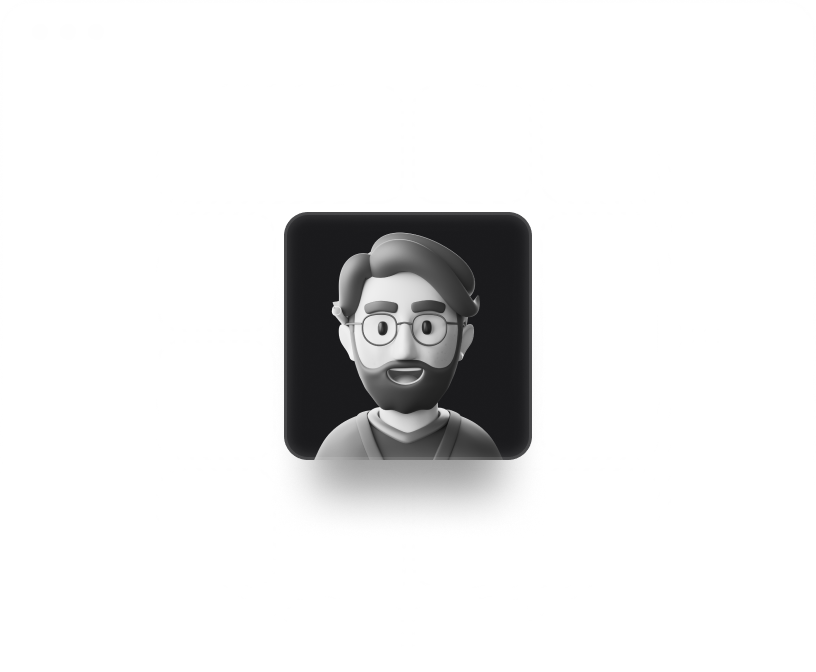
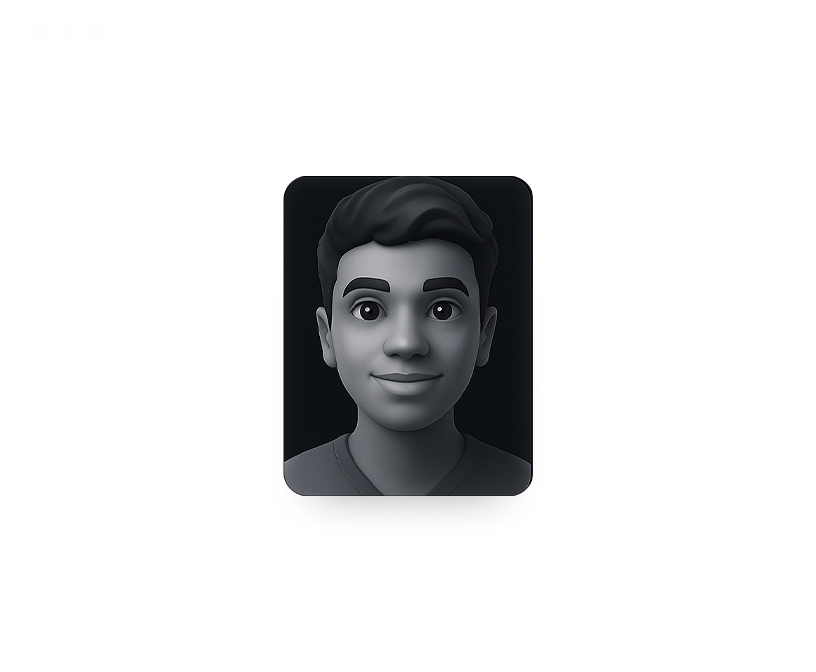
about grid added

Changed region(s): [[0.337, 0.25, 0.674, 0.75]]

diff --git a/src/sections/About.jsx b/src/sections/About.jsx
@@ -1,0 +1,49 @@
+import React from "react";
+
+const About = () => {
+  return (
+    <section className="c-space my-20">
+      <div className="grid xl:grid-cols-3 xl:grid-rows-6 md:grid-cols-2 grid-cols-1 gap-5 h-full">
+        <div className="col-span-1 xl-row-span-3">
+          <div className="grid-container">
+            <img
+              src="/assets/grid1.png"
+              alt="grid-1"
+              className="w-full sm:h-[276] h-fit object-contain"
+            />
+            <div>
+              <p className="grid-headtext">Hi , Im Ahgama</p>
+              <p className="grid-subtext">
+                I am a self-taught developer with domain knowledge across
+                diverse fields. I can bring any idea to life in the most
+                efficient and creative way possible.
+              </p>
+            </div>
+          </div>
+        </div>
+        <div className="col-span-1 xl:row-span-2">
+          <div className="grid-container">
+            <img src="/assets/grid2.png" className="w-full  sm:w-[276px] h-fit object-contain" />
+            <div>
+              <p className="grid-headtext">Tech Stack</p>
+              <p className="grid-subtext">
+                I specialize in Python, React, and JavaScript, and bring
+                additional expertise in Docker, Linux, and diverse domain areas
+                to every project I take on
+              </p>
+            </div>
+          </div>
+        </div>
+        <div className="col-span-1 xl:row-span-4">
+            <div className="grid-container">
+            <div className="rounded-3xl w-full sm-h[326px] h-fit flex justify-center items-center">
+              
+              </div>
+            </div>
+        </div>
+        </div>
+    </section>
+  );
+};
+
+export default About;

diff --git a/src/sections/hero.jsx b/src/sections/hero.jsx
@@ -18,12 +18,13 @@ const Hero = () => {
   const isTablet = useMediaQuery({ minWidth: 768, maxWidth: 1024 });
   const isMobile = useMediaQuery({ maxWidth: 768 });
   const sizes = calculateSizes(isSmall, isTablet, isMobile);
-  const dlc = useControls("DirectionalLight", {
-    positionX: { value: 0, min: -10, max: 10, step: 0.01 },
-    positionY: { value: 0, min: -10, max: 10, step: 0.01 },
-    positionZ: { value: 0, min: -10, max: 10, step: 0.01 },
-    intensity: { value: 1, min: 0, max: 10, step: 0.01 },
-  });
+  // Leva controls for tweaking the DirectionalLight properties in real-time
+  // const dlc = useControls("DirectionalLight", {
+  //   positionX: { value: 0, min: -10, max: 10, step: 0.01 },
+  //   positionY: { value: 0, min: -10, max: 10, step: 0.01 },
+  //   positionZ: { value: 0, min: -10, max: 10, step: 0.01 },
+  //   intensity: { value: 1, min: 0, max: 10, step: 0.01 },
+  // });
 
   return (
     <section className="min-h-screen w-full flex flex-col  ">
@@ -34,7 +35,7 @@ const Hero = () => {
         <p className="hero_tag text-gray_gradient">Trying to survive</p>
       </div>
       <div className="w-full h-full absolute inset-0">
-        <Leva />
+        
         <Canvas className="w-full h-full">
           <Suspense fallback={<CanvasLoader />}>
             <HeroCamera isMobile={isMobile}>
@@ -52,8 +53,8 @@ const Hero = () => {
             </group>
             <ambientLight intensity={0.5} />
             <directionalLight
-              position={[dlc.positionX, dlc.positionY, dlc.positionZ]}
-              intensity={dlc.intensity}
+              position={[-0.3, 0.24,0]}
+              intensity={3.01}
             />
 
             <PerspectiveCamera makeDefault position={[0, 0, 20]} />

diff --git a/src/App.jsx b/src/App.jsx
@@ -1,11 +1,13 @@
 import React from 'react';
 import Hero from "./sections/hero.jsx";
 import Navbar from "./sections/navbar.jsx";
+import About from './sections/About.jsx';
 const App = () => {
     return (
         <main className="max-w-7xl mx-auto">
             <Navbar />
             <Hero />
+            <About />
         </main>
     );
 }
